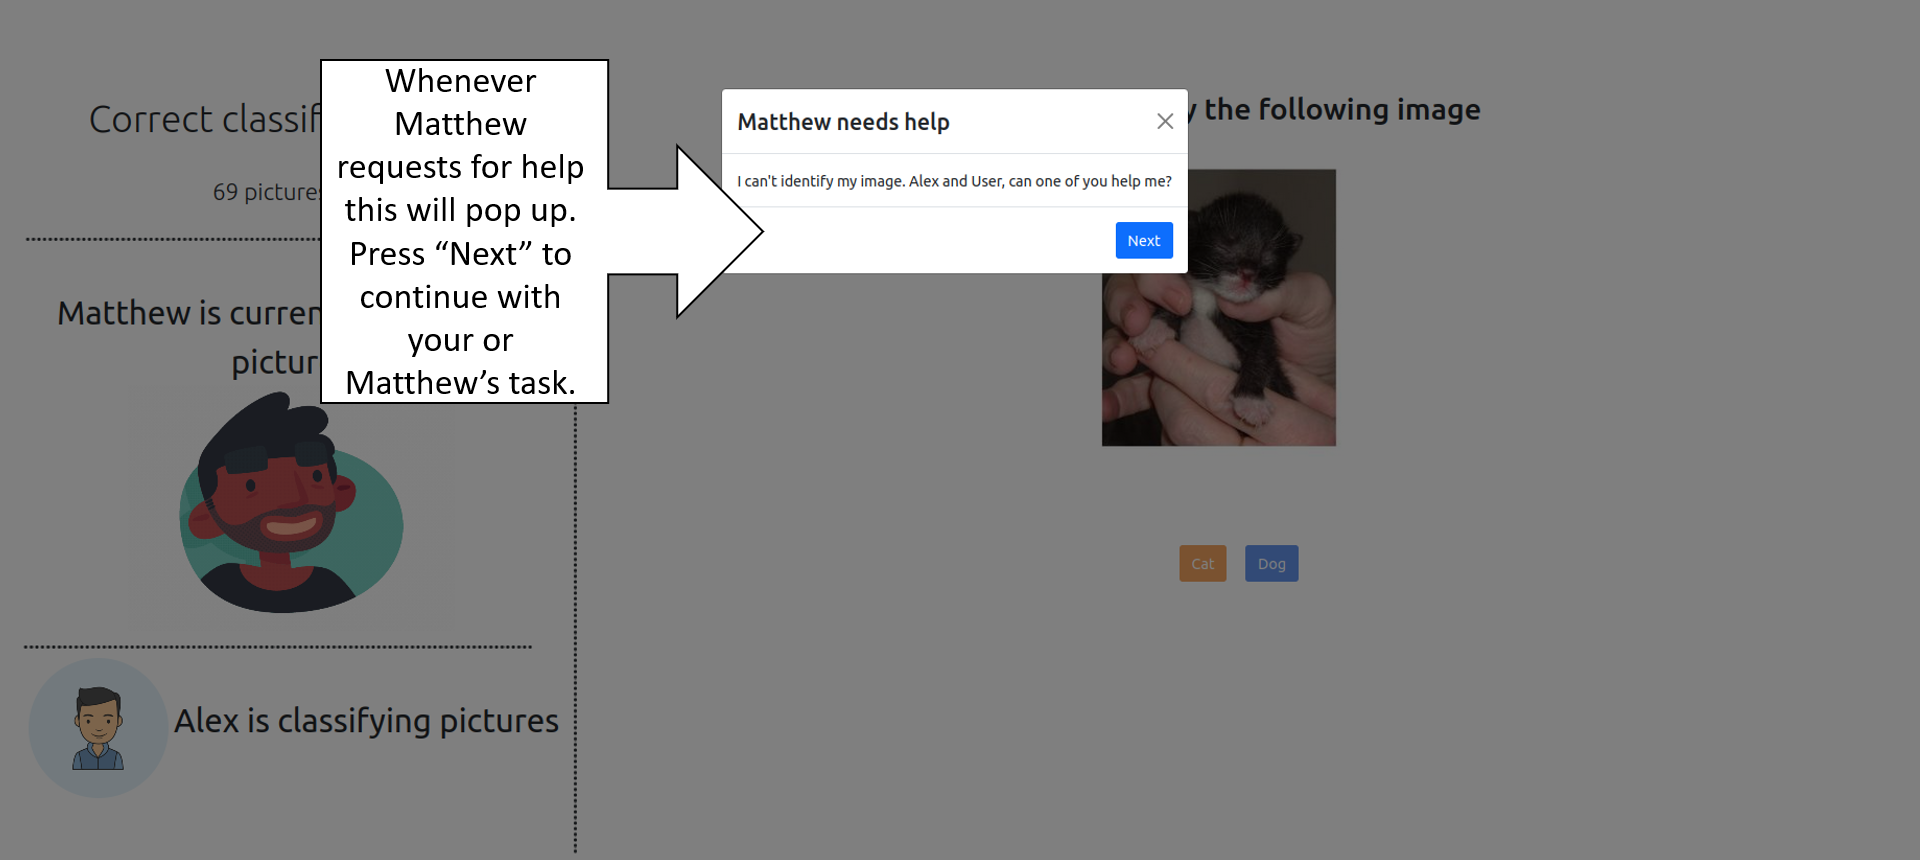
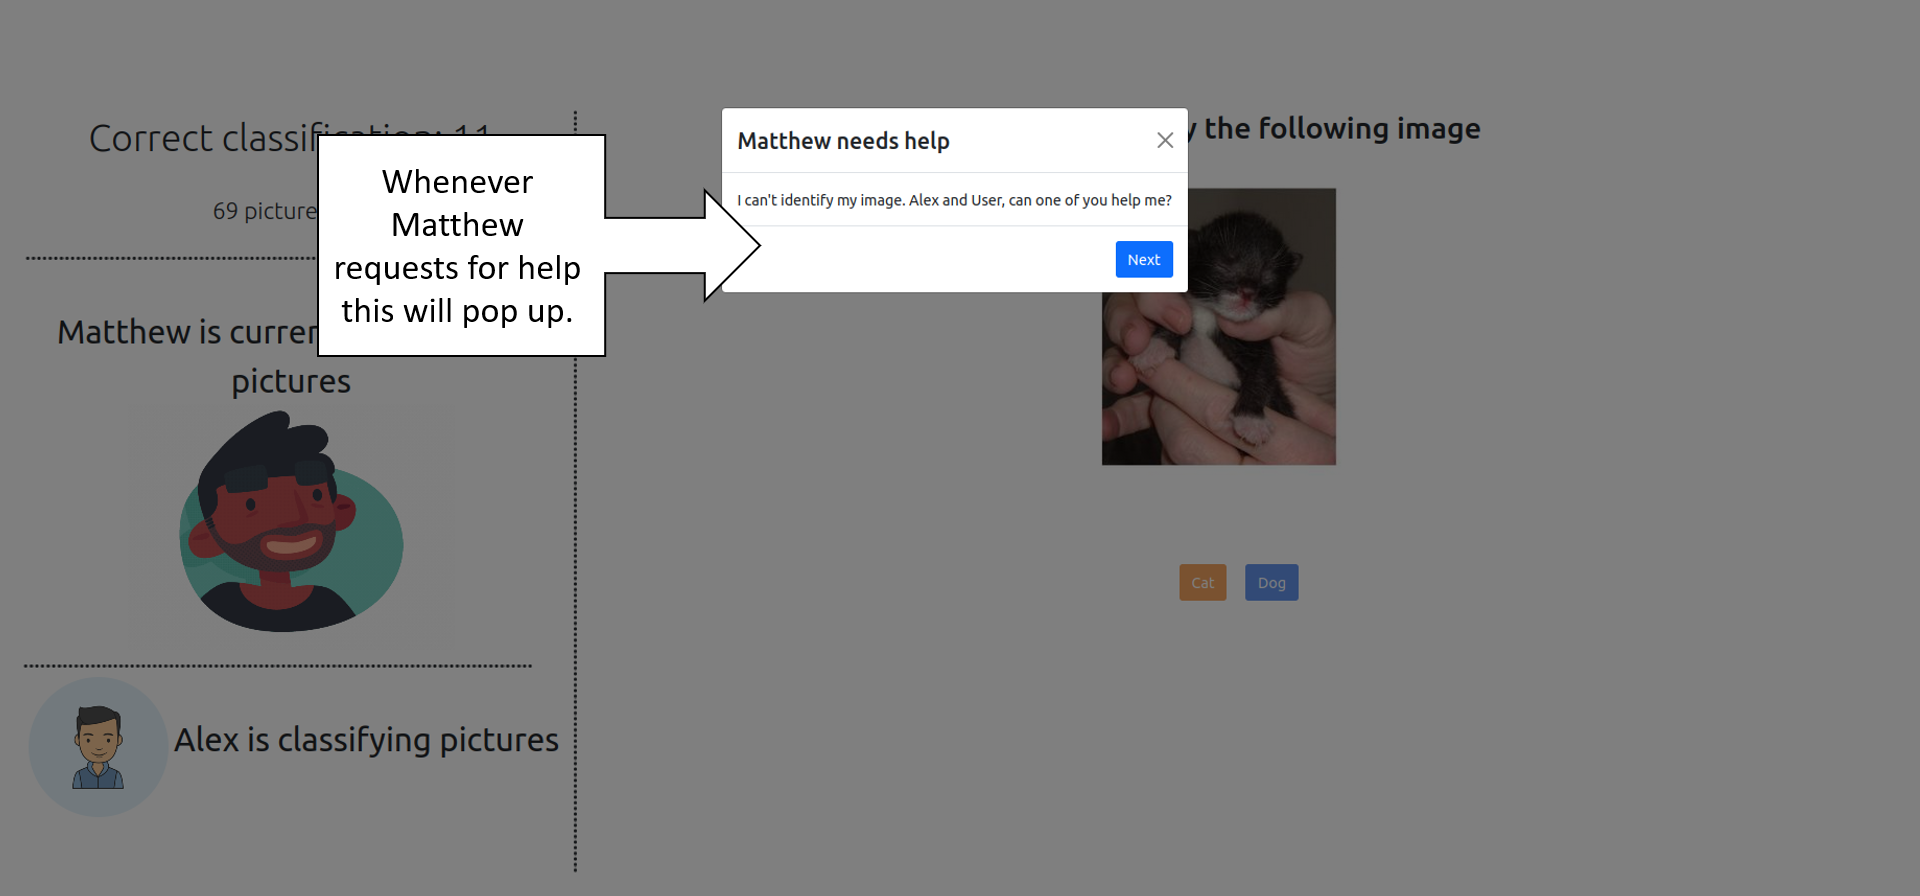
design changes

diff --git a/src/game/gamePage.css b/src/game/gamePage.css
@@ -2,7 +2,7 @@
     margin-top: 20px;
     display: flex;
     flex-direction: row;
-    height: 90vh;
+    height: 100%;
 }
 
 .cls-page-col-1 {
@@ -16,6 +16,7 @@
     flex-direction: column;
     align-items: center;
     position: relative;
+    height: 90vh;
 }
 
 .img-to-cls {
@@ -177,19 +178,20 @@
 }
 
 .robot-text {
-    font-size: 35px;
+    font-size: 25px;
     /*float: right;*/
     margin-top: 40px;
 }
 
 .human-text {
-    font-size: 35px;
+    font-size: 25px;
     float: right;
     margin-top: 40px;
+    margin-right: 40px;
 }
 
 .robot-pic {
-    width: 350px;
+    width: 300px;
     height: auto;
     padding-bottom: 15px;
     /*padding-bottom: 10px;*/
@@ -197,7 +199,7 @@
 }
 
 .Alex-pic {
-    width: 150px;
+    width: 120px;
     height: auto;
     display: inline-block;
     border-radius: 50%;

diff --git a/src/game/helpRequests.js b/src/game/helpRequests.js
@@ -18,7 +18,7 @@ function HelpRequests({firstHelp, openWhen, handleClose, onHelpAnswer, name}) {
                         Next
                         </Button>:
                         <>
-                            <Button variant="secondary" onClick={handleClose}>
+                            <Button variant="primary" onClick={handleClose}>
                             No
                             </Button>
                             <Button variant="primary" onClick={onHelpAnswer}>
